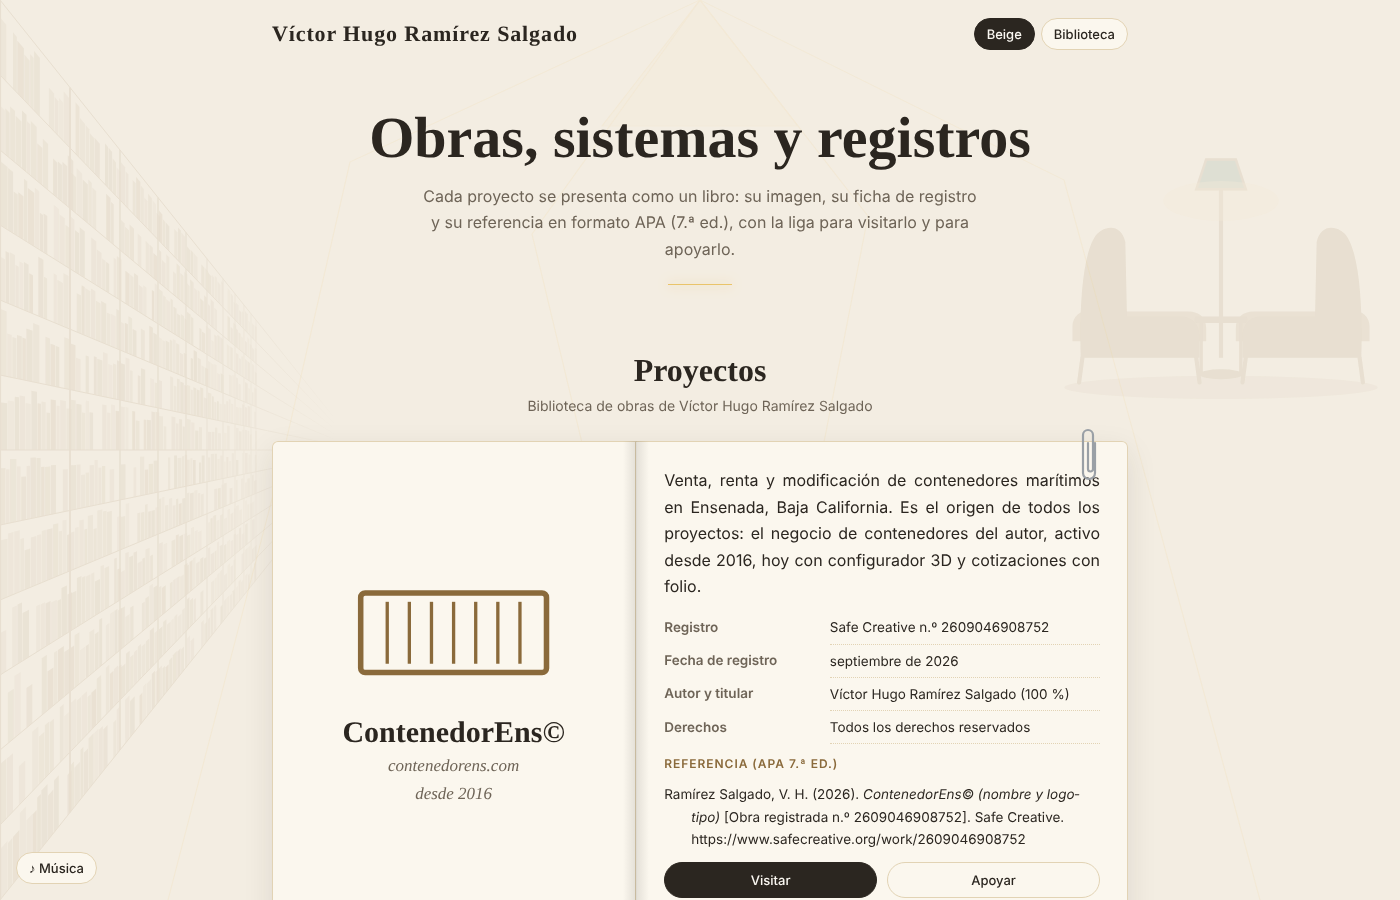
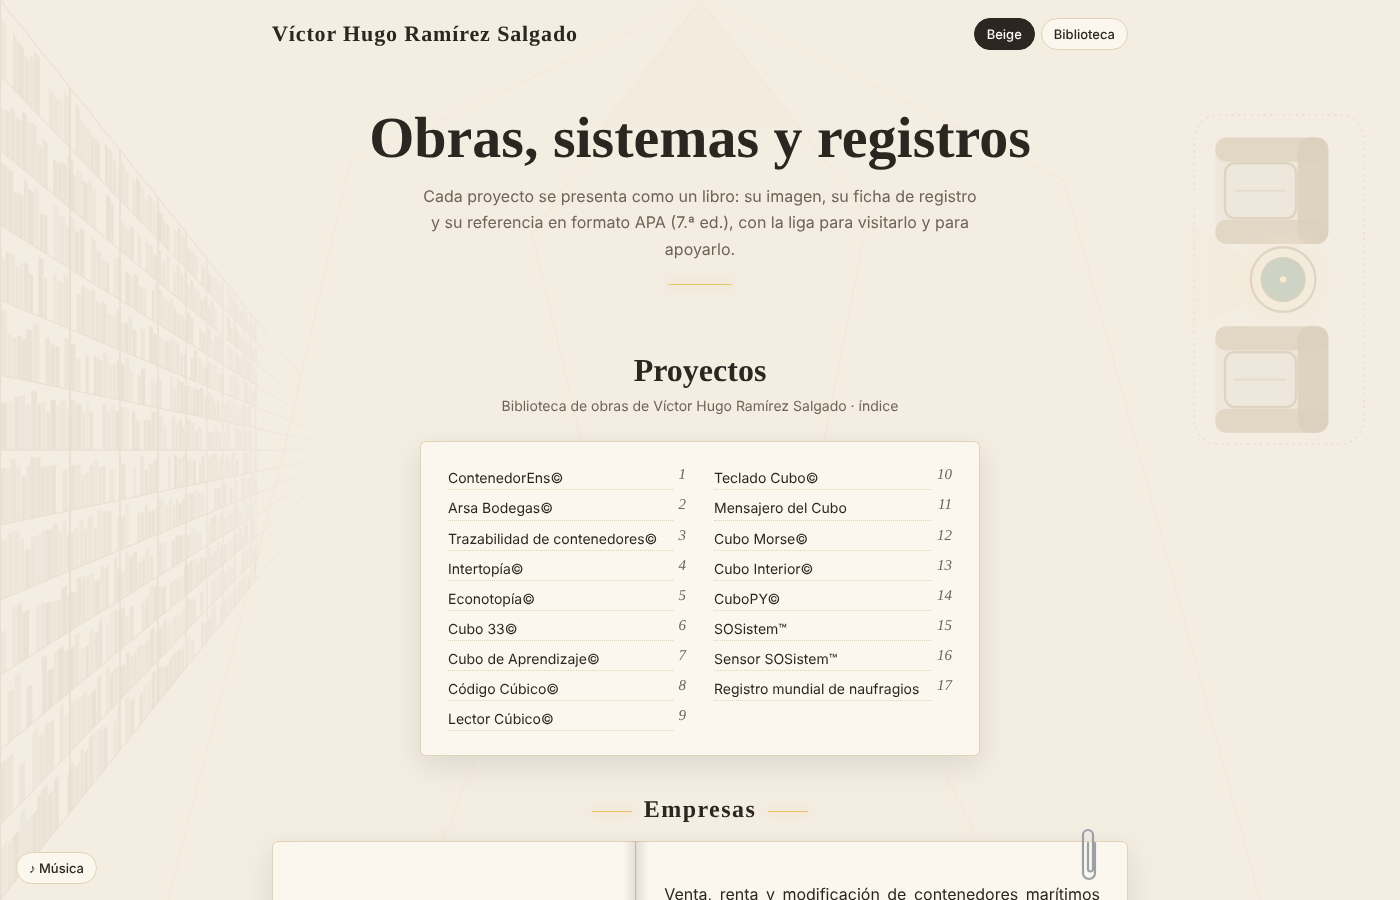
Propuesta: sillones vistos desde arriba mirando hacia la biblioteca, lámpara verde al centro
Asistencia-IA

diff --git a/propuesta/index.html b/propuesta/index.html
@@ -16,9 +16,9 @@ body{margin:0;background:var(--bg);color:var(--tinta);font:400 16px/1.65 Inter,s
 body.biblioteca{background:radial-gradient(900px 520px at 50% -80px,rgba(242,201,107,.20),transparent 62%),radial-gradient(600px 400px at 50% 100%,rgba(242,201,107,.06),transparent 70%),repeating-linear-gradient(90deg,rgba(0,0,0,.10) 0 2px,transparent 2px 140px),linear-gradient(#34473C,#2C3A32 40%,#26332C)}
 .libreria,.sillones{position:fixed;pointer-events:none;z-index:0}
 .libreria{top:0;bottom:0;left:0;width:min(30vw,340px);background:url(libreria-infinita.svg) left center/cover no-repeat;opacity:.10;-webkit-mask-image:linear-gradient(90deg,#000 55%,transparent);mask-image:linear-gradient(90deg,#000 55%,transparent)}
-.sillones{right:1vw;top:110px;width:min(24vw,330px);aspect-ratio:400/350;background:url(sillones.svg) center/contain no-repeat;opacity:.10}
+.sillones{right:2vw;top:110px;width:min(15vw,210px);aspect-ratio:260/420;background:url(sillones.svg) center/contain no-repeat;opacity:.22}
 body.biblioteca .libreria{background-image:url(libreria-infinita-dorada.svg);opacity:.16}
-body.biblioteca .sillones{background-image:url(sillones-dorado.svg);opacity:.18}
+body.biblioteca .sillones{background-image:url(sillones-dorado.svg);opacity:.30}
 .rayos{position:fixed;inset:0;width:100%;height:100%;pointer-events:none;z-index:0;opacity:.18}
 body:not(.biblioteca) .rayos{opacity:.10}
 .wrap{position:relative;z-index:1;max-width:900px;margin:0 auto;padding:0 22px}
